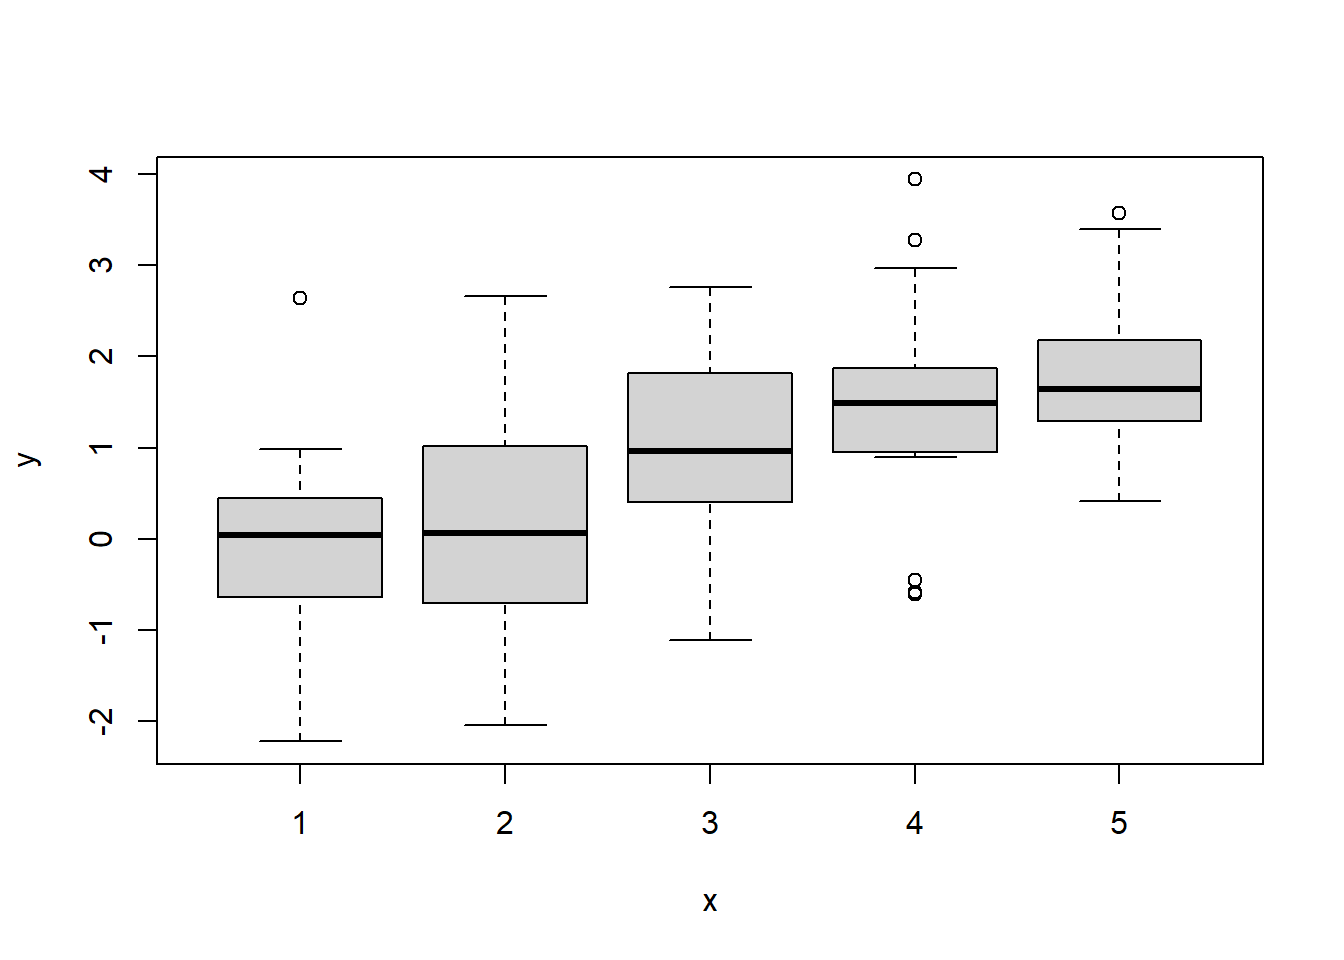
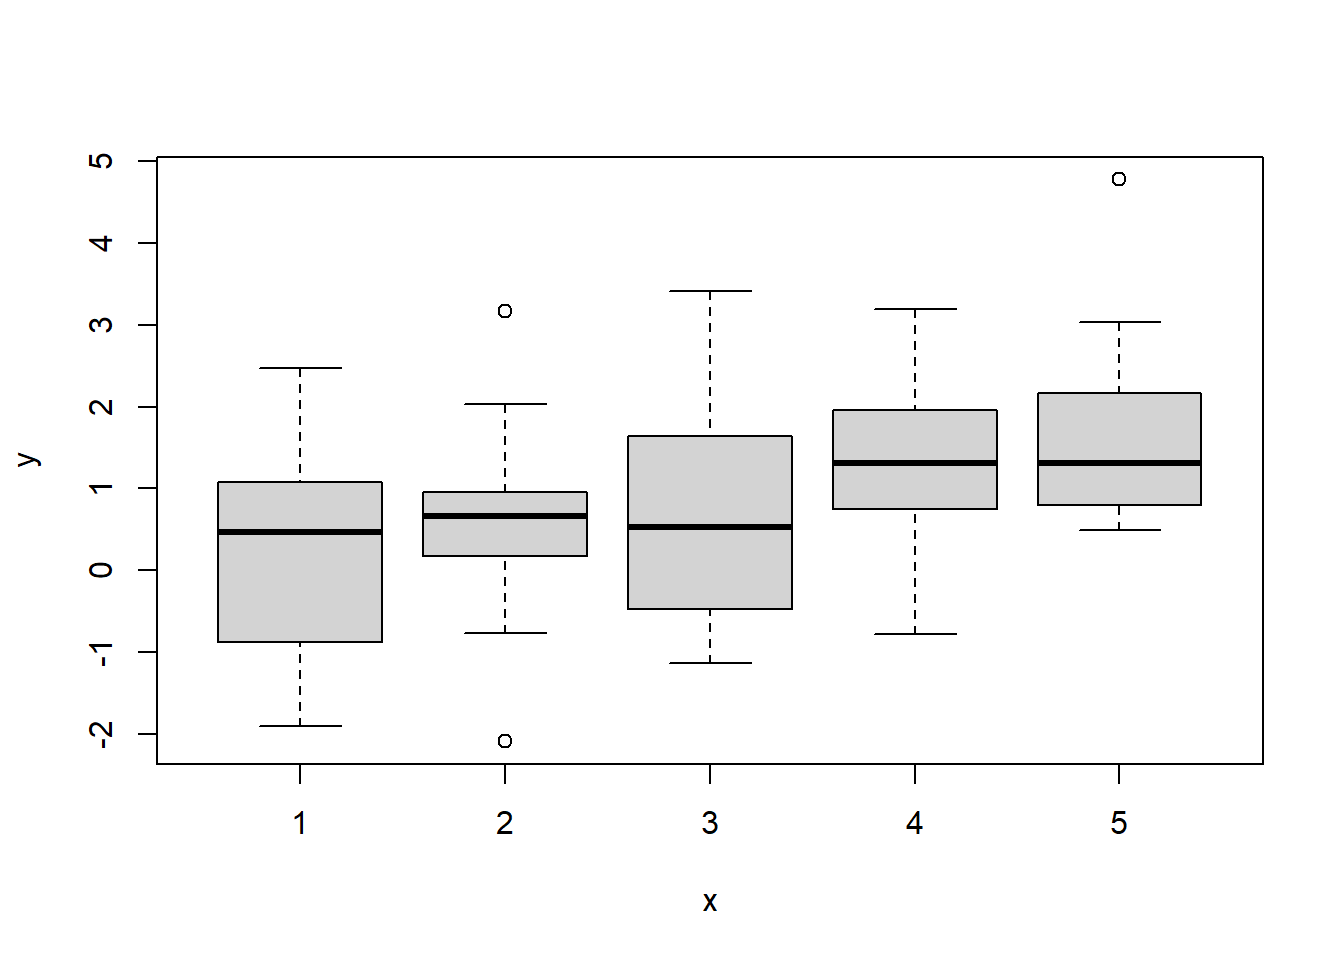
Add files via upload

diff --git a/2020/06/16/r-lessons-and-assignments/index.html b/2020/06/16/r-lessons-and-assignments/index.html
@@ -3,7 +3,7 @@
   <head>
     <meta charset="utf-8">
 <meta name="viewport" content="width=device-width, initial-scale=1.0">
-<meta name="generator" content="Hugo 0.72.0" />
+<meta name="generator" content="Hugo 0.74.3" />
 
 
 <title>R lessons and assignments - Assignments for Statistics with R</title>
@@ -139,18 +139,18 @@ summary(linear_regression_fit)</code></pre>
 ## 
 ## Residuals:
 ##     Min      1Q  Median      3Q     Max 
-## -2.5075 -0.7283 -0.1397  0.5824  2.5811 
+## -2.2572 -0.6888  0.2136  0.7901  1.8440 
 ## 
 ## Coefficients:
 ##             Estimate Std. Error t value Pr(&gt;|t|)    
-## (Intercept)   4.0209     0.1961   20.51   &lt;2e-16 ***
-## x             6.1013     0.1916   31.84   &lt;2e-16 ***
+## (Intercept)   4.0496     0.2135   18.97   &lt;2e-16 ***
+## x             6.1563     0.2497   24.66   &lt;2e-16 ***
 ## ---
 ## Signif. codes:  0 &#39;***&#39; 0.001 &#39;**&#39; 0.01 &#39;*&#39; 0.05 &#39;.&#39; 0.1 &#39; &#39; 1
 ## 
-## Residual standard error: 1.074 on 28 degrees of freedom
-## Multiple R-squared:  0.9731, Adjusted R-squared:  0.9722 
-## F-statistic:  1014 on 1 and 28 DF,  p-value: &lt; 2.2e-16</code></pre>
+## Residual standard error: 1.166 on 28 degrees of freedom
+## Multiple R-squared:  0.956,  Adjusted R-squared:  0.9544 
+## F-statistic:   608 on 1 and 28 DF,  p-value: &lt; 2.2e-16</code></pre>
 <pre class="r"><code># Extracting the value of the adjusted R-square.
 adjR2 = summary(linear_regression_fit)[[&#39;adj.r.squared&#39;]]
 
@@ -158,7 +158,7 @@ adjR2 = summary(linear_regression_fit)[[&#39;adj.r.squared&#39;]]
 # For &#39;print&#39;, there are double quotes around the
 # output, unlike in &#39;writeLies&#39;.
 print(paste(&#39;Adjusted R-square is&#39;, adjR2))</code></pre>
-<pre><code>## [1] &quot;Adjusted R-square is 0.972164962966621&quot;</code></pre>
+<pre><code>## [1] &quot;Adjusted R-square is 0.954400879894875&quot;</code></pre>
 <pre class="r"><code># Producing the regression diagnostic plots. Note how the
 # subplots are produced using the &#39;mfrow&#39; option. Here,
 # mfrow = c(2,2) reserves space for a 2 x 2 matrix of
@@ -206,19 +206,19 @@ summary(linear_regression_fit)</code></pre>
 ## 
 ## Residuals:
 ##      Min       1Q   Median       3Q      Max 
-## -2.18978 -0.45325 -0.00921  0.55799  1.57113 
+## -2.37622 -0.85513 -0.04516  0.83614  2.76180 
 ## 
 ## Coefficients:
 ##             Estimate Std. Error t value Pr(&gt;|t|)    
-## (Intercept)   1.0266     0.1695   6.057 1.82e-06 ***
-## X[, 1]        2.7960     0.1977  14.145 5.28e-14 ***
-## X[, 2]        5.0267     0.2333  21.546  &lt; 2e-16 ***
+## (Intercept)   0.9519     0.2262   4.208 0.000255 ***
+## X[, 1]        3.0793     0.3439   8.954 1.44e-09 ***
+## X[, 2]        5.2068     0.3568  14.592 2.51e-14 ***
 ## ---
 ## Signif. codes:  0 &#39;***&#39; 0.001 &#39;**&#39; 0.01 &#39;*&#39; 0.05 &#39;.&#39; 0.1 &#39; &#39; 1
 ## 
-## Residual standard error: 0.9104 on 27 degrees of freedom
-## Multiple R-squared:  0.9873, Adjusted R-squared:  0.9864 
-## F-statistic:  1049 on 2 and 27 DF,  p-value: &lt; 2.2e-16</code></pre>
+## Residual standard error: 1.212 on 27 degrees of freedom
+## Multiple R-squared:  0.9727, Adjusted R-squared:  0.9706 
+## F-statistic: 480.3 on 2 and 27 DF,  p-value: &lt; 2.2e-16</code></pre>
 <pre class="r"><code># Extracting the value of the adjusted R-square.
 adjR2 = summary(linear_regression_fit)[[&#39;adj.r.squared&#39;]]
 
@@ -227,7 +227,7 @@ adjR2 = summary(linear_regression_fit)[[&#39;adj.r.squared&#39;]]
 # output, unlike in &#39;writeLies&#39;. Also, we use the &#39;round&#39;
 # function for rounding off the decimal digits.
 writeLines(paste(&#39;Adjusted R-square is&#39;, round(adjR2, 2)))</code></pre>
-<pre><code>## Adjusted R-square is 0.99</code></pre>
+<pre><code>## Adjusted R-square is 0.97</code></pre>
 <pre class="r"><code># Producing the regression diagnostic plots.
 par(mfrow = c(2,2))
 plot(linear_regression_fit)</code></pre>
@@ -236,7 +236,7 @@ plot(linear_regression_fit)</code></pre>
 require(car)
 vif(linear_regression_fit)</code></pre>
 <pre><code>##   X[, 1]   X[, 2] 
-## 1.929096 1.929096</code></pre>
+## 2.008721 2.008721</code></pre>
 </div>
 <div id="anova" class="section level2">
 <h2>ANOVA</h2>
@@ -282,9 +282,9 @@ boxplot(Y[,1][21:40])</code></pre>
 <pre class="r"><code># Now we carry out an ANOVA study.
 anovafit = aov(Y[,1] ~ Y[,2])
 summary(anovafit)</code></pre>
-<pre><code>##             Df Sum Sq Mean Sq F value   Pr(&gt;F)    
-## Y[, 2]       4   47.2  11.800   10.31 5.58e-07 ***
-## Residuals   95  108.7   1.144                     
+<pre><code>##             Df Sum Sq Mean Sq F value Pr(&gt;F)   
+## Y[, 2]       4  26.71   6.678   4.727 0.0016 **
+## Residuals   95 134.22   1.413                  
 ## ---
 ## Signif. codes:  0 &#39;***&#39; 0.001 &#39;**&#39; 0.01 &#39;*&#39; 0.05 &#39;.&#39; 0.1 &#39; &#39; 1</code></pre>
 <pre class="r"><code># How do we extract the p-value? We can do it this way:
@@ -306,21 +306,21 @@ y2 = rnorm(20, 1, 1)
 # normality with mean 0 and standard deviation 1.
 k1 = ks.test(y1, &#39;pnorm&#39;, alternative = &#39;two.sided&#39;)
 writeLines(paste(&#39;p-value for y1 is:&#39;, k1$p.value))</code></pre>
-<pre><code>## p-value for y1 is: 0.925646165871785</code></pre>
+<pre><code>## p-value for y1 is: 0.184046986270697</code></pre>
 <pre class="r"><code>k2 = ks.test(y2, &#39;pnorm&#39;, alternative = &#39;two.sided&#39;)
 writeLines(paste(&#39;p-value for y2 is:&#39;, k2$p.value))</code></pre>
-<pre><code>## p-value for y2 is: 0.00641756097612145</code></pre>
+<pre><code>## p-value for y2 is: 0.00123458009965349</code></pre>
 <pre class="r"><code># Kolmogorov-Smirnov test of normality with mean and standard
 # deviation estimated from the data.
 k2a = ks.test(y2, &#39;pnorm&#39;, mean(y2), sd(y2),
               alternative = &#39;two.sided&#39;)
 writeLines(paste(&#39;p-value for y2 now is:&#39;, k2a$p.value))</code></pre>
-<pre><code>## p-value for y2 now is: 0.715547207465254</code></pre>
+<pre><code>## p-value for y2 now is: 0.741052261475311</code></pre>
 <pre class="r"><code># Kolmogorov-Smirnov two-sample test; here it checks whether
 # y1 and y2 comes from the same distribution
 k3 = ks.test(y1, y2, alternative = &#39;two.sided&#39;)
 writeLines(paste(&#39;p-value for the two-sided test:&#39;, k3$p.value))</code></pre>
-<pre><code>## p-value for the two-sided test: 0.174533005698069</code></pre>
+<pre><code>## p-value for the two-sided test: 0.0335416594061468</code></pre>
 <pre class="r"><code># Q-Q plot yields a good visual indication whether the two
 # samples are from the same distribution.
 # We first compute the quantiles.
@@ -342,10 +342,10 @@ y = rcat(100, probabilities)
 # Conducting the test.
 pvalue1 = chisq.test(as.vector(table(y)), p = probabilities)$p.value
 writeLines(paste(&#39;p value of chi squared test:&#39;, pvalue1))</code></pre>
-<pre><code>## p value of chi squared test: 0.895328499862924</code></pre>
+<pre><code>## p value of chi squared test: 0.00550918959728614</code></pre>
 <pre class="r"><code>pvalue2 = chisq.test(as.vector(table(y)), p = rep(0.2, 5))$p.value
 writeLines(paste(&#39;p value of chi squared test:&#39;, pvalue2))</code></pre>
-<pre><code>## p value of chi squared test: 0.010338797085364</code></pre>
+<pre><code>## p value of chi squared test: 3.66669020397196e-07</code></pre>
 <p>Next, we consider the one-sample and two sample sign tests. We consider the same models as considered for Kolmogorov-Smirnov tests.</p>
 <pre class="r"><code># Assume m_1 = 0, m_2 = 1.
 y1 = rnorm(20, 0, 1)
@@ -356,15 +356,15 @@ y2 = rnorm(20, 1, 1)
 require(BSDA)
 p1 = SIGN.test(y1, md = 0)$p.value
 writeLines(paste(&#39;p1 =&#39;, p1))</code></pre>
-<pre><code>## p1 = 0.115318298339844</code></pre>
+<pre><code>## p1 = 0.263175964355469</code></pre>
 <pre class="r"><code>p2 = SIGN.test(y2, md = 0)$p.value
 writeLines(paste(&#39;p2 =&#39;, p2))</code></pre>
-<pre><code>## p2 = 1.90734863303454e-06</code></pre>
+<pre><code>## p2 = 0.00040245056152366</code></pre>
 <pre class="r"><code># Two-sample sign test; null hypothesis is that
 # the median of the population of differences is &#39;md&#39;.
 p3 = SIGN.test(y1, y2, md = 0)$p.value
 writeLines(paste(&#39;p3 =&#39;, p3))</code></pre>
-<pre><code>## p3 = 0.000402450561523438</code></pre>
+<pre><code>## p3 = 4.00543212890625e-05</code></pre>
 </div>
 </div>
 <div id="reproducible-results" class="section level1">

diff --git a/about.html b/about.html
@@ -10,6 +10,7 @@
 
 
 
+<meta name="date" content="2020-06-16" />
 
 <title>About</title>
 
@@ -362,12 +363,12 @@ summary {
 
 
 <h1 class="title toc-ignore">About</h1>
-<h4 class="date">2016-05-05T21:48:51-07:00</h4>
+<h4 class="date">2020-06-16</h4>
 
 </div>
 
 
-<p>This website contains some <code>R</code> lessons and the assignments for the course <em>Statistics with R</em> conducted in <a href="&#39;http://iacs.res.in/index.html&#39;">The Indian Association for the Cultivation of Science</a>.</p>
+<p>This site contains some <code>R</code> lessons and the assignments for the course <em>Statistics with R</em> conducted in <a href="&#39;http://iacs.res.in/index.html&#39;">The Indian Association for the Cultivation of Science</a> on 2020.</p>
 
 
 

diff --git a/categories/index.html b/categories/index.html
@@ -3,7 +3,7 @@
   <head>
     <meta charset="utf-8">
 <meta name="viewport" content="width=device-width, initial-scale=1.0">
-<meta name="generator" content="Hugo 0.72.0" />
+<meta name="generator" content="Hugo 0.74.3" />
 
 
 <title>Categories - Assignments for Statistics with R</title>

diff --git a/categories/statistics/index.html b/categories/statistics/index.html
@@ -3,7 +3,7 @@
   <head>
     <meta charset="utf-8">
 <meta name="viewport" content="width=device-width, initial-scale=1.0">
-<meta name="generator" content="Hugo 0.72.0" />
+<meta name="generator" content="Hugo 0.74.3" />
 
 
 <title>Statistics - Assignments for Statistics with R</title>

diff --git a/about/index.html b/about/index.html
@@ -3,7 +3,7 @@
   <head>
     <meta charset="utf-8">
 <meta name="viewport" content="width=device-width, initial-scale=1.0">
-<meta name="generator" content="Hugo 0.72.0" />
+<meta name="generator" content="Hugo 0.74.3" />
 
 
 <title>About - Assignments for Statistics with R</title>

diff --git a/post/index.html b/post/index.html
@@ -3,7 +3,7 @@
   <head>
     <meta charset="utf-8">
 <meta name="viewport" content="width=device-width, initial-scale=1.0">
-<meta name="generator" content="Hugo 0.72.0" />
+<meta name="generator" content="Hugo 0.74.3" />
 
 
 <title>Posts - Assignments for Statistics with R</title>

diff --git a/tags/index.html b/tags/index.html
@@ -3,7 +3,7 @@
   <head>
     <meta charset="utf-8">
 <meta name="viewport" content="width=device-width, initial-scale=1.0">
-<meta name="generator" content="Hugo 0.72.0" />
+<meta name="generator" content="Hugo 0.74.3" />
 
 
 <title>Tags - Assignments for Statistics with R</title>

diff --git a/categories/r/index.html b/categories/r/index.html
@@ -3,7 +3,7 @@
   <head>
     <meta charset="utf-8">
 <meta name="viewport" content="width=device-width, initial-scale=1.0">
-<meta name="generator" content="Hugo 0.72.0" />
+<meta name="generator" content="Hugo 0.74.3" />
 
 
 <title>R - Assignments for Statistics with R</title>

diff --git a/index.html b/index.html
@@ -3,7 +3,7 @@
   <head>
     <meta charset="utf-8">
 <meta name="viewport" content="width=device-width, initial-scale=1.0">
-<meta name="generator" content="Hugo 0.72.0" />
+<meta name="generator" content="Hugo 0.74.3" />
 
 
 <title>Assignments for Statistics with R</title>
